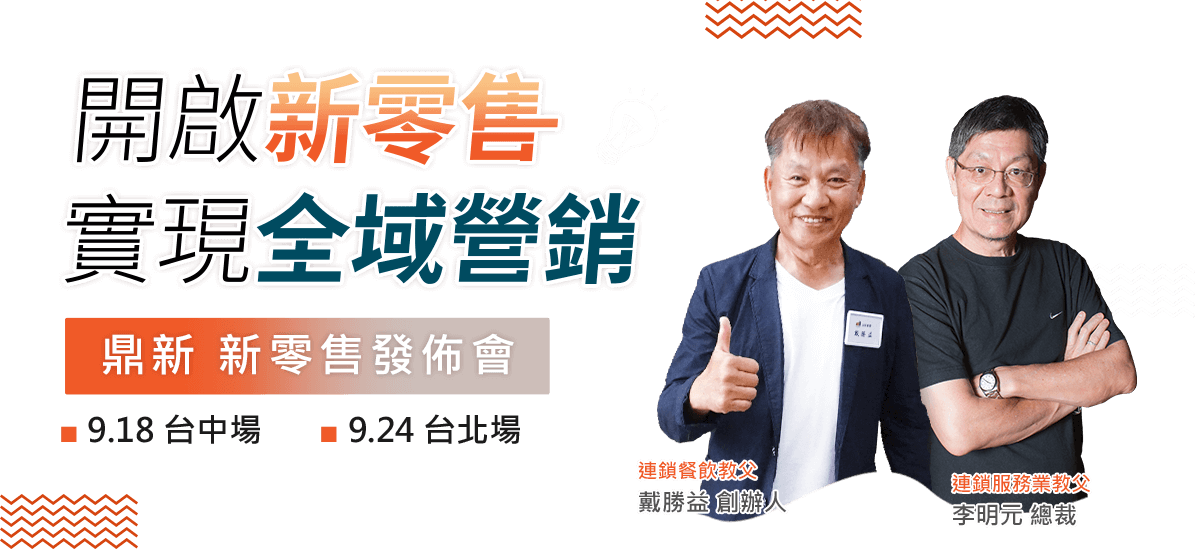
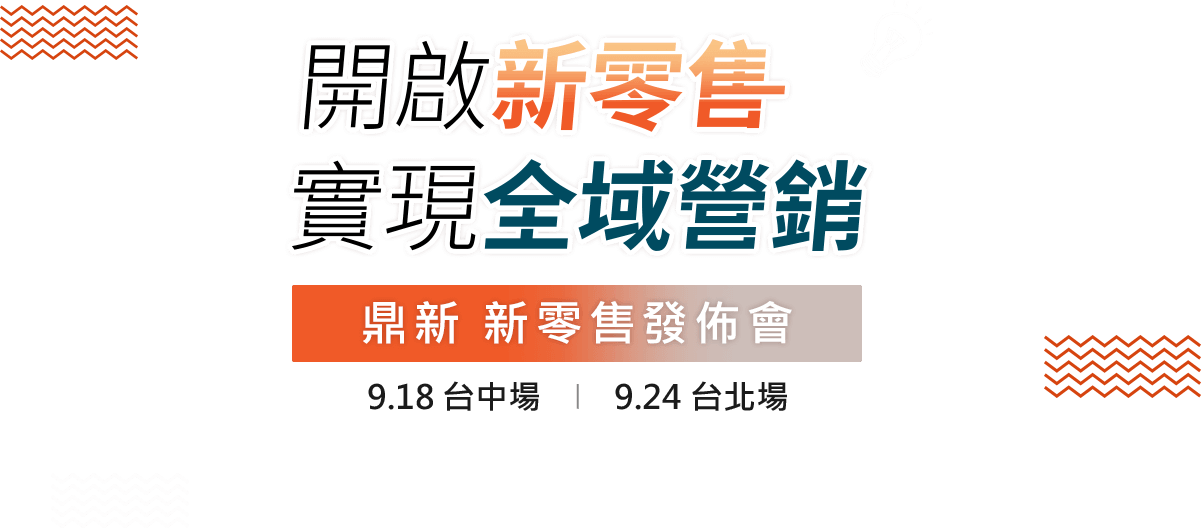
更新新零售活動頁

diff --git a/dsc/activity/RTL/WB002993/web/src/App.vue b/dsc/activity/RTL/WB002993/web/src/App.vue
@@ -1,6 +1,6 @@
 <template>
     <transition name="fade">
-        <div v-if="result && imgLoaded" class="wrapper">
+        <div v-if="isReady" class="wrapper">
             <Header></Header>
             <MenuMask></MenuMask>
 
@@ -12,18 +12,18 @@
                     <header>
                         <h1>
                             <picture>
-                                <source
-                                    srcset="images/header-bg-s.png"
-                                    media="(max-width:768px)"
-                                />
+                                <source srcset="images/header-bg-s.png" media="(max-width:768px)" />
                                 <img src="images/header-bg.png" alt="鼎新新零售發佈會-開啟新零售，實現全域營銷" />
                             </picture>
                         </h1>
+                        <a href @click.prevent="scrollToAnchor('#speaker')">
+                            <i class="material-icons">keyboard_arrow_down</i>
+                        </a>
                     </header>
 
                     <article id="speaker" class="speaker">
                         <div class="container">
-                            <SectionTitle title="∙ 講師陣容 ∙" paddingBottom="1em"></SectionTitle>
+                            <SectionTitle title="∙ 講師陣容 ∙"></SectionTitle>
                             <div class="speaker-casts">
                                 <Cast
                                     v-for="(cast,idx) in result.casts"
@@ -41,7 +41,10 @@
                                     <i class="material-icons">close</i>
                                 </span>
                                 <span>
-                                    跨界攜手推進<strong><i class="highlight">新零售</i></strong>
+                                    跨界攜手推進
+                                    <strong>
+                                        <i class="highlight">新零售</i>
+                                    </strong>
                                 </span>
                             </h2>
                             <div class="speaker-features">
@@ -52,8 +55,21 @@
                                 ></Feature>
                             </div>
                             <div class="speaker-detail">
-                                <p>新零售翻轉產業生態<br />面對<strong>消費者思考模式的改變</strong><br />跨平台、多通路、多支付、碎片數據？</p>
-                                <p>鼎新結合各領域產官學專家齊聚<br /><strong>串聯金流、物流、資訊流一體化</strong><br />實現<strong>全域營銷</strong>，打造更高效的<strong>新零售模式</strong><br />提升流通管理新價值！</p>
+                                <p>
+                                    新零售翻轉產業生態
+                                    <br />面對
+                                    <strong>消費者思考模式的改變</strong>
+                                    <br />跨平台、多通路、多支付、碎片數據？
+                                </p>
+                                <p>
+                                    鼎新結合各領域產官學專家齊聚
+                                    <br />
+                                    <strong>串聯金流、物流、資訊流一體化</strong>
+                                    <br />實現
+                                    <strong>全域營銷</strong>，打造更高效的
+                                    <strong>新零售模式</strong>
+                                    <br />提升流通管理新價值！
+                                </p>
                             </div>
                         </div>
                     </article>
@@ -123,7 +139,10 @@
                                 target="_blank"
                             >
                                 <picture>
-                                    <source srcset="@/assets/images/ad-s.jpg" media="(max-width:768px)" />
+                                    <source
+                                        srcset="@/assets/images/ad-s.jpg"
+                                        media="(max-width:768px)"
+                                    />
                                     <img src="@/assets/images/ad.jpg" alt />
                                 </picture>
                             </a>
@@ -198,8 +217,8 @@ export default {
     data() {
         return {
             currentPopup: 0,
-            imgLoaded: false,
             publicPath: process.env.BASE_URL,
+            isReady: false,
         }
     },
     computed: {
@@ -209,6 +228,14 @@ export default {
         result() {
             return this.$store.state.result;
         },
+    },
+    watch: {
+        result() {
+            this.preloadImg();
+        },
+        isReady() {
+            this.$nextTick(() => this.scrollToAnchor(location.hash, false));
+        }
     },
     methods: {
         mediaSensor() {
@@ -240,15 +267,27 @@ export default {
                 image.onload = () => {
                     loaded++;
                     if (loaded === images.length) {
-                        this.imgLoaded = true;
+                        this.isReady = true;
                     }
                 };
                 image.src = img;
             });
-        }
+        },
+        scrollToAnchor(targetId, behavior = 'smooth') {
+            if (targetId) {
+                let targetPos = document.querySelector(targetId).offsetTop;
+                let navHeight = document.querySelector('#mainNav') && document.querySelector('#mainNav').offsetHeight;
+                let finalPos = navHeight ? targetPos - navHeight : targetPos;
+                if (behavior) {
+                    window.scroll({ top: finalPos, left: 0, behavior });
+                }
+                else {
+                    window.scroll({ top: finalPos, left: 0 });
+                }
+            }
+        },
     },
     created() {
-        this.preloadImg();
         this.$store.dispatch('getData');
     },
     mounted() {
@@ -293,7 +332,8 @@ export default {
 }
 .main {
     min-width: 360px;
-    background-image: url('~@/assets/images/bg1.png'), url('~@/assets/images/bg2.jpg');
+    background-image: url('~@/assets/images/bg1.png'),
+    url('~@/assets/images/bg2.jpg');
     background-position: 50% 0;
     background-repeat: no-repeat, repeat-y;
     flex-grow: 1;
@@ -318,8 +358,31 @@ export default {
         padding-left: 10px;
     }
 }
-header h1 {
-    text-align: center;
+header {
+    position: relative;
+    display: flex;
+    height: calc(100vh - 35px);
+    justify-content: center;
+    align-items: center;
+    @media (max-width: $tablet-width) {
+        height: auto;
+    }
+    h1 {
+        text-align: center;
+    }
+    a {
+        position: absolute;
+        bottom: 0;
+        left: 50%;
+        color: #f05a28;
+        transform: translateX(-50%);
+        @media (max-width: $tablet-width) {
+            bottom: -50px;
+        }
+    }
+    .material-icons {
+        font-size: 6em;
+    }
 }
 .sectionTitle {
     display: flex;
@@ -336,12 +399,6 @@ header h1 {
     }
 }
 .speaker {
-    padding-bottom: 3.5em;
-    .sectionTitle {
-        @media (min-width: $tablet-width + 1) {
-            padding-top: 28px;
-        }
-    }
     &-casts {
         display: flex;
         flex-wrap: wrap;
@@ -355,7 +412,7 @@ header h1 {
         flex-direction: row;
         color: #004b60;
         font-weight: bold;
-        font-size: 38px;
+        font-size: 34px;
         align-items: center;
         justify-content: center;
         @media (max-width: $tablet-width) {

diff --git a/dsc/activity/RTL/WB002993/web/src/components/Cast.vue b/dsc/activity/RTL/WB002993/web/src/components/Cast.vue
@@ -56,6 +56,12 @@ export default {
     img {
         width: 241px;
         height: 222px;
+        transition: transform .4s;
+    }
+    @at-root {
+        html.no-mobile .cast:hover img {
+            transform: scale(1.1);
+        }
     }
 }
 figcaption {

diff --git a/dsc/activity/RTL/WB002993/web/src/components/SectionTitle.vue b/dsc/activity/RTL/WB002993/web/src/components/SectionTitle.vue
@@ -25,7 +25,7 @@ export default {
 }
 .sectionTitle h1 {
     max-width: 100%;
-    font-size: 38px;
+    font-size: 34px;
     @media (max-width: $tablet-width) {
         font-size: 35px;
     }
